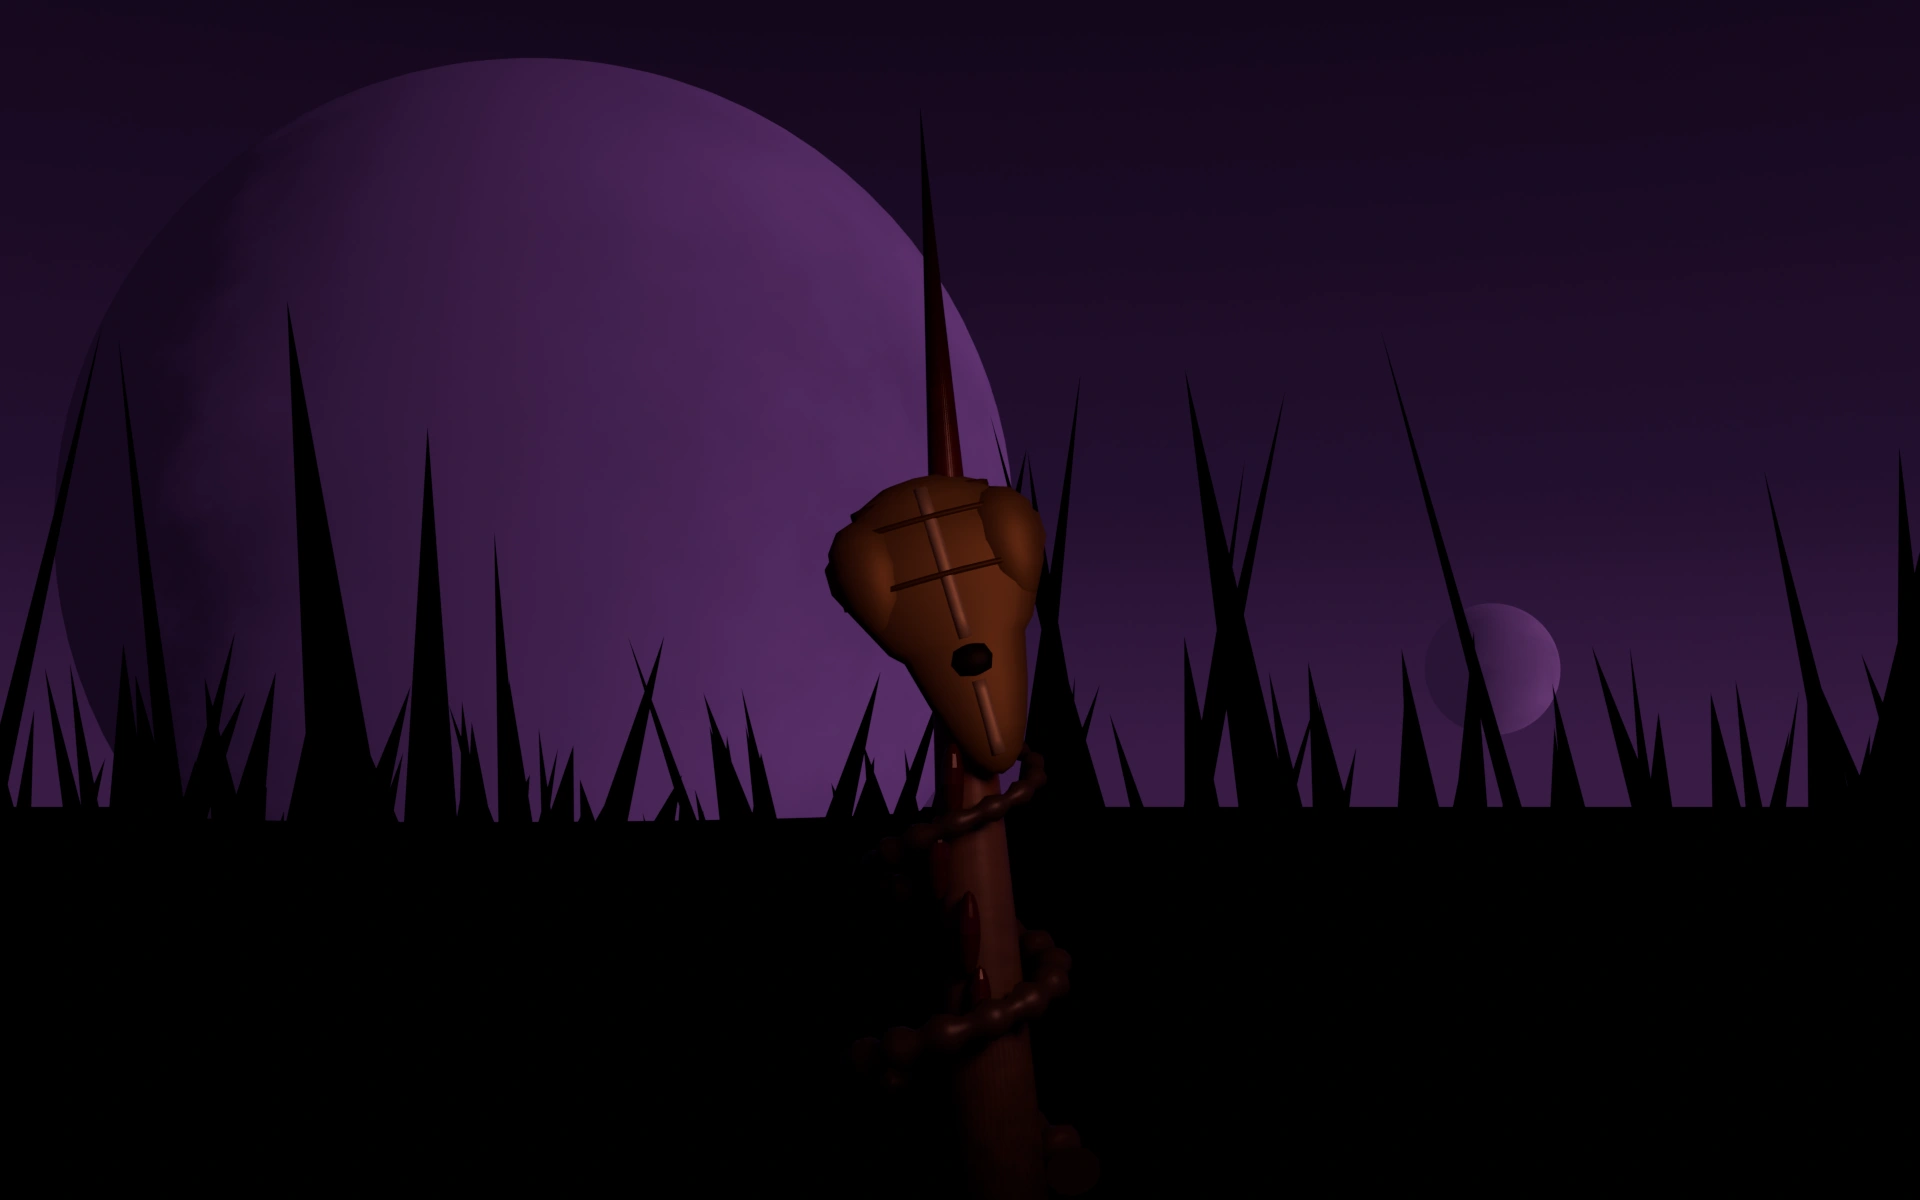
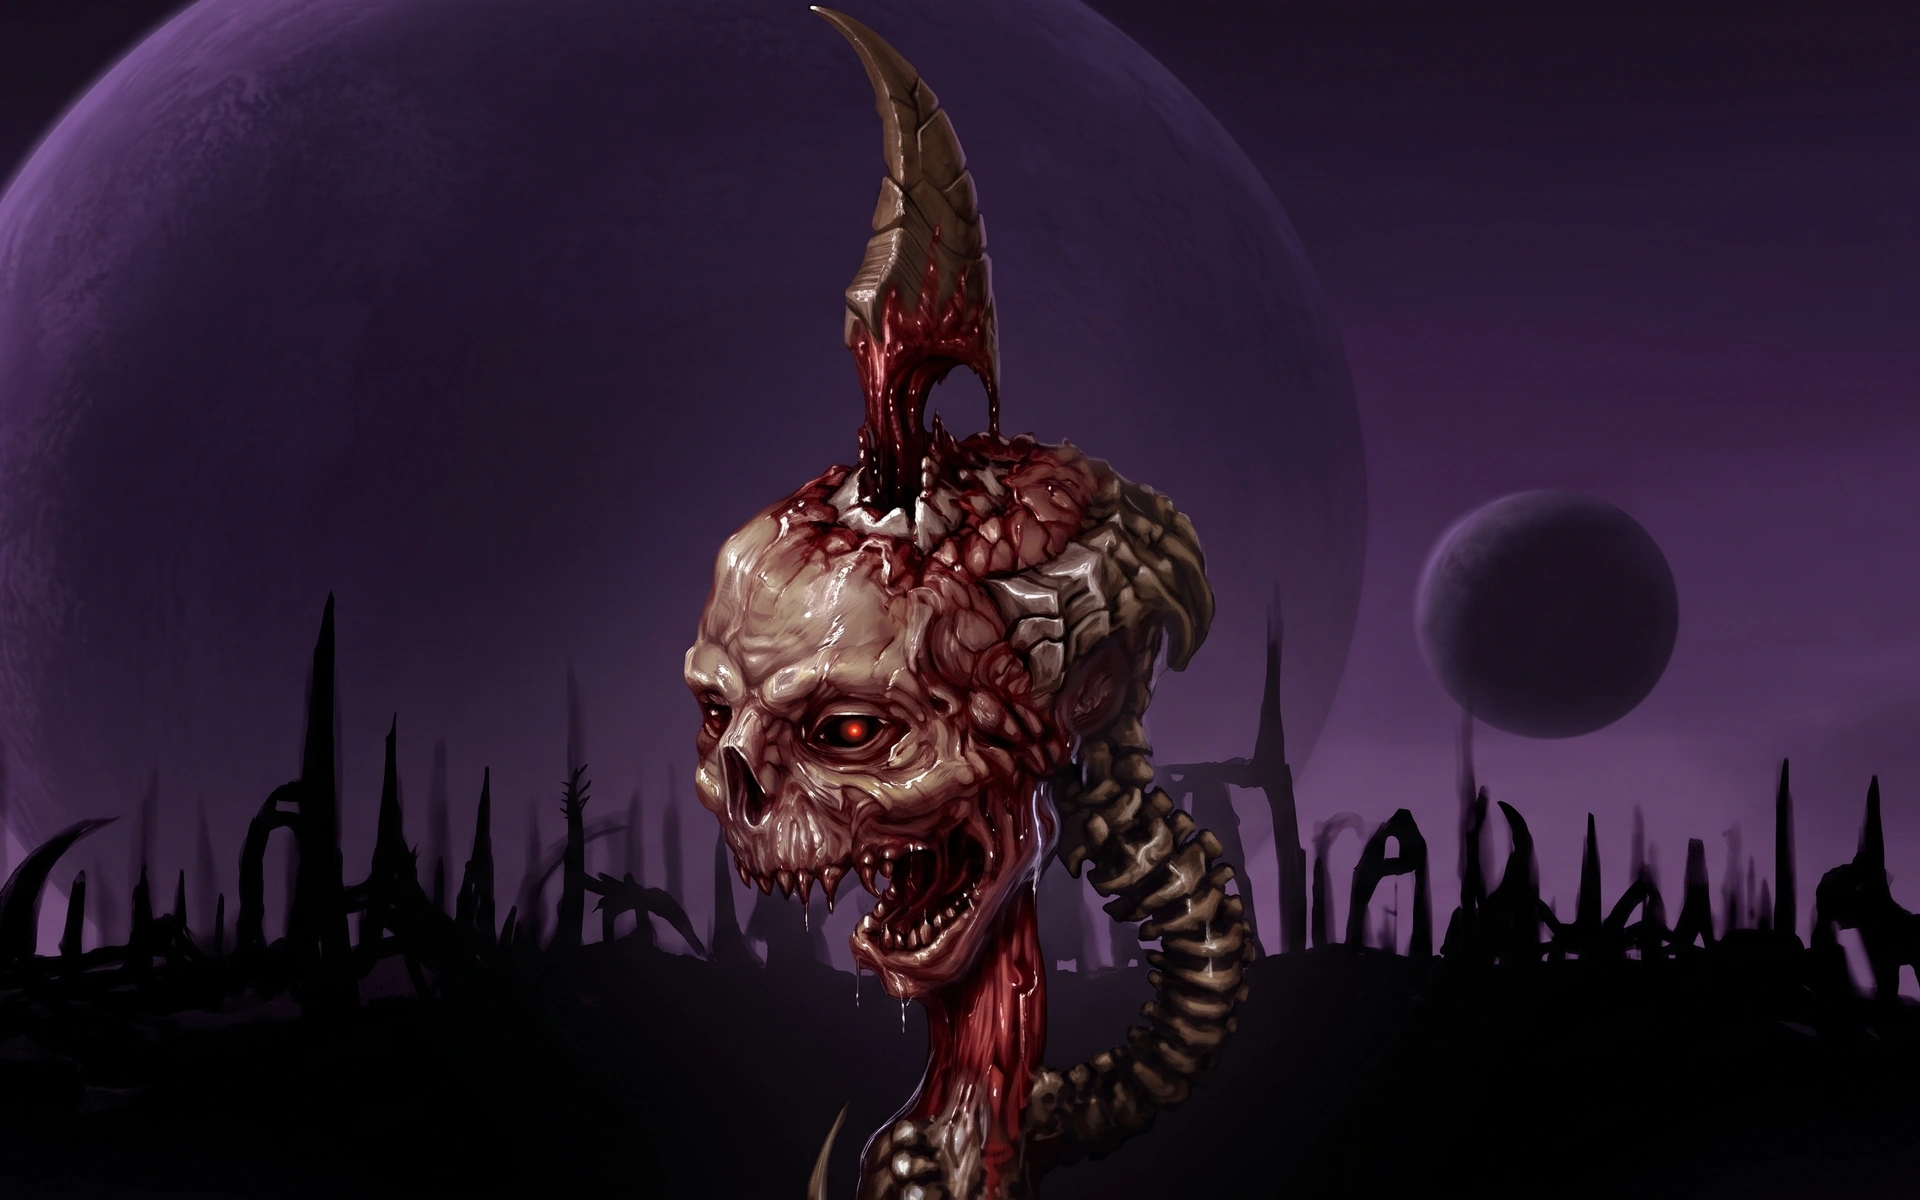
Picture 8: Gemini repaint of the original skull (D160, reverses D19 for this picture)

diff --git a/assets/art/README.md b/assets/art/README.md
@@ -34,7 +34,7 @@ Numbers are `JE_loadPic` ids (1-based); the palette is `pcxpal[id - 1]` (`src/si
 | 5 | The usual backdrop for story text, warnings and secret hints (`]P 005`, all episodes) | A dark violet gas giant in the middle of black space, lit only on its left edge | `story_planet.webp` |
 | 6 | The in-game frame, two players | As 3, with two shield/armour panels stacked on the right | `hud_two_player.webp` |
 | 7 | End of episode 2 (`]P 007`, levels2 section 13) | A golden dragon's head lying dead on a stone-tiled floor, green crystal growing from a wound behind its eye | `story_dragon.webp` |
-| 8 | End of episode 1, panned up to (`]U 008`, levels1 section 42: "If not, things could become unpleasant.") | A flayed, grinning skull impaled on a horn, against a violet sky with a huge planet and a small moon over a spiky black horizon | `story_skull.webp` |
+| 8 | End of episode 1, panned up to (`]U 008`, levels1 section 42: "If not, things could become unpleasant.") | A flayed, grinning skull impaled on a horn, against a violet sky with a huge planet and a small moon over a spiky black horizon | `story_skull.webp` | (Gemini repaint of the original, D160; `story_skull.py` is the old Blender version)
 | 9 | End of episode 1 and the news reports that follow (`]P 009`, levels1 section 42) | A dim brown tangle of horns, tendrils and claws in the dark | `story_tangle.webp` |
 | 10 | The first intro logo (`intro_logos`, mainint.c) | The publisher's logo: a chrome emblem against a sunlit sky of clouds | `intro_publisher.webp` |
 | 11 | Destruct, the hidden artillery game (destruct.c) | Black, with a red status bar for each player across the top | `destruct.webp` |

diff --git a/CREDITS.md b/CREDITS.md
@@ -36,6 +36,7 @@ anything imported from outside, such as Poly Haven textures or HDRIs.
 | Remastered shot, pickup and explosion sprites (`public/art/sprites/`) | Generated with Google Gemini (Nano Banana) from input sheets of Tyrian's original sprites, cut and fitted with `tools/flat_art.py` (DECISIONS.md D43, D80, D94, D97, D108) | Based on Tyrian's sprite art (Daniel Cook) | As the art they're based on | Drawn flat in game in place of the original shot, pickup and explosion sprites (D42, D80) |
 | Title logo (`public/art/title/tyrian-logo.svg`, `tyrian-logo-mask.svg`) | Logo traced from the original Tyrian title sprite (PLANET_SHAPES #146 in tyrian.shp, palette 8) to vector paths for this project (DECISIONS.md D64) | Original artwork from Tyrian (1995) | As the art it is traced from | The title and data screens' logo (`src/ui/components.ts` logo()) |
 | Concept images of models (`assets/blender/features/concepts/`) | Generated with Google Gemini (Nano Banana) from the sprites above; two supplied by the project's author | Based on Daniel Cook's Tyrian art | As the art they're based on | Design references for the Blender models; not shipped in the game |
+| Story picture 8, the flayed skull on a horn (`public/art/story_skull.webp`) | Generated with Google Gemini (Nano Banana Pro) from a 4x softened copy of Tyrian's original picture 8 (`]U 008`), cropped to 16:10 (DECISIONS.md D160) | Original artwork from Tyrian (1995), Eclipse Productions (art: Daniel Cook and the Tyrian artists) | As the art it is based on | The end-of-episode-1 story screen |
 
 ## Audio
 

diff --git a/DECISIONS.md b/DECISIONS.md
@@ -7200,3 +7200,25 @@ Tests:
 - `tests/render/screenFilters.test.ts`: `compileFiltered` compiles with the scene target bound and puts the
   previous target back.
 - `tests/render/spriteArt.test.ts`: the warm-up makes the explosion batch and the stencil setter.
+
+## D160 — Picture 8 (the skull on a horn) is a Gemini repaint of the original, reversing D19 for this picture
+
+2026-11-12
+
+**Decision:** `public/art/story_skull.webp` is now a Google Gemini (Nano Banana Pro) repaint of
+Tyrian's original picture 8, from a 4x softened copy of it, cropped from 16:9 to 16:10 and scaled to
+1920x1200 (198 KB). D19 had it redrawn in Blender from the game's models; that gave a brown
+ship-like shape on a spike, not the original's flayed alien skull with a glowing red eye, so the
+user asked for a Gemini repaint of the original instead. The file name, `pictures.json` entry and
+`]U 008` pan are unchanged. `assets/art/story_skull.py` stays as the old version, no longer the source.
+
+**Options considered:**
+- *Repaint the original with Gemini (chosen):* the composition, skull, horn, spine, planet and moon
+  match the original; same route D43 and D58 use for sprites and terrain.
+- *Keep the Blender redraw (D19):* ours to rebuild from scripts, but it doesn't show what the
+  original shows.
+
+**Review:** Derived from the original's artwork, credited in CREDITS.md like the other Gemini
+repaints; the input copy is not committed (art rule 6). The story panel sits where it did before and
+covers the skull's upper face while text is up.
+
